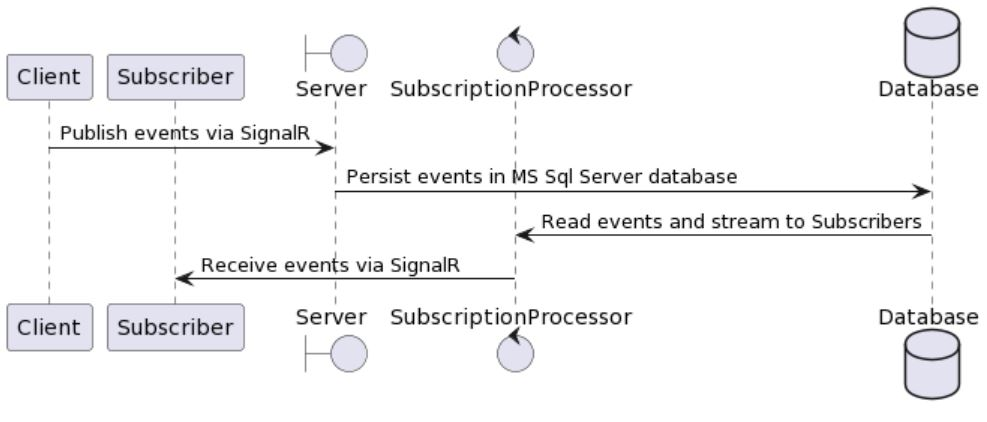
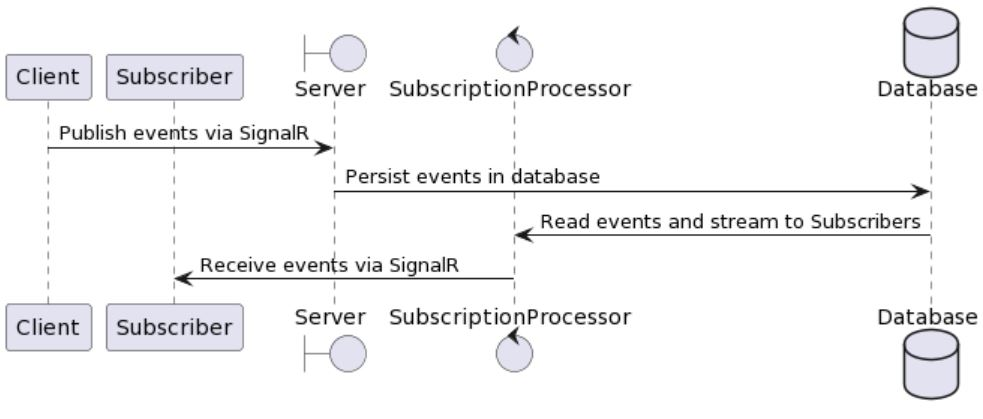
changes for hooking up server to your own database.

diff --git a/AspNetCore.SignalR.EventStream/EventStreamExtensions.cs b/AspNetCore.SignalR.EventStream/EventStreamExtensions.cs
@@ -14,6 +14,9 @@ namespace AspNetCore.SignalR.EventStream
         public bool UseSqlServer { get; set; }
         public string? SqlServerConnectionString { get; set; }
         public string EventStreamHubUrl { get; set; }
+        public bool UseMyRepository { get; set; } = false;
+        public bool RegisterMyRepository { get; set; } = true;
+        public Type? Repository { get; set; }
     }
 
     public static class EventStreamExtensions
@@ -39,8 +42,12 @@ namespace AspNetCore.SignalR.EventStream
             }
             
             services.AddScoped<IEventStreamService, EventStreamService>();
-
-            if (_options.UseSqlServer)
+            
+            if (_options.UseMyRepository && _options.RegisterMyRepository && _options.Repository != null)
+            {
+                services.AddScoped(typeof(IRepository), _options.Repository);
+            }
+            else if (_options.UseSqlServer)
             {
                 services.AddScoped<IRepository, SqlServerRepository>();
                 services.AddEntityFrameworkSqlServer().AddDbContext<SqlServerDbContext>(o => o.UseSqlServer(_options.SqlServerConnectionString));

diff --git a/Docs/README_MyOwnRepository.md b/Docs/README_MyOwnRepository.md
@@ -1,0 +1,32 @@
+### Event Stream - Use your own Repository
+
+You can use your own repository which talks to your database.
+
+By implementing **IRepository** interface in your Server project.
+
+![IRepository interface](/Docs/IRepository.jpg)
+
+The, in the wire it up as below:
+
+```C#
+    //Add dependencies for MyRepository
+    .
+    .
+    //Add Event Stream
+    services.AddEventStream(options => 
+    {        
+        options.UseMyRepository = true;        
+        options.Repository = typeof(MyRepository);
+        options.EventStreamHubUrl = "https://localhost:5001/eventstreamhub";
+    });
+```
+
+Add dependencies, your Repository needs, to DI.
+
+Your repository is added as a Scoped service to DI by default.
+
+But, if you set **RegisterMyRepository** to false, you have to add your Repository to DI too.
+
+```C#
+    options.RegisterMyRepository = false;
+```

diff --git a/README.md b/README.md
@@ -136,6 +136,8 @@ Out of the box, the Server can use **MS Sqlite** database.
 
 You can also hook it up to use **MS Sql Server** database.
 
+But, you can implement **IRepository** interface to hook the Server up to your own database. Read [**My own repository**](Docs/README_MyOwnRepository.md).
+
 You can filter requests to the Event Stream SignalR Hub. Read [**Hub Filter**](Docs/README_HubFilter.md).
 
 You can also implement access to the Hub in this filter.
